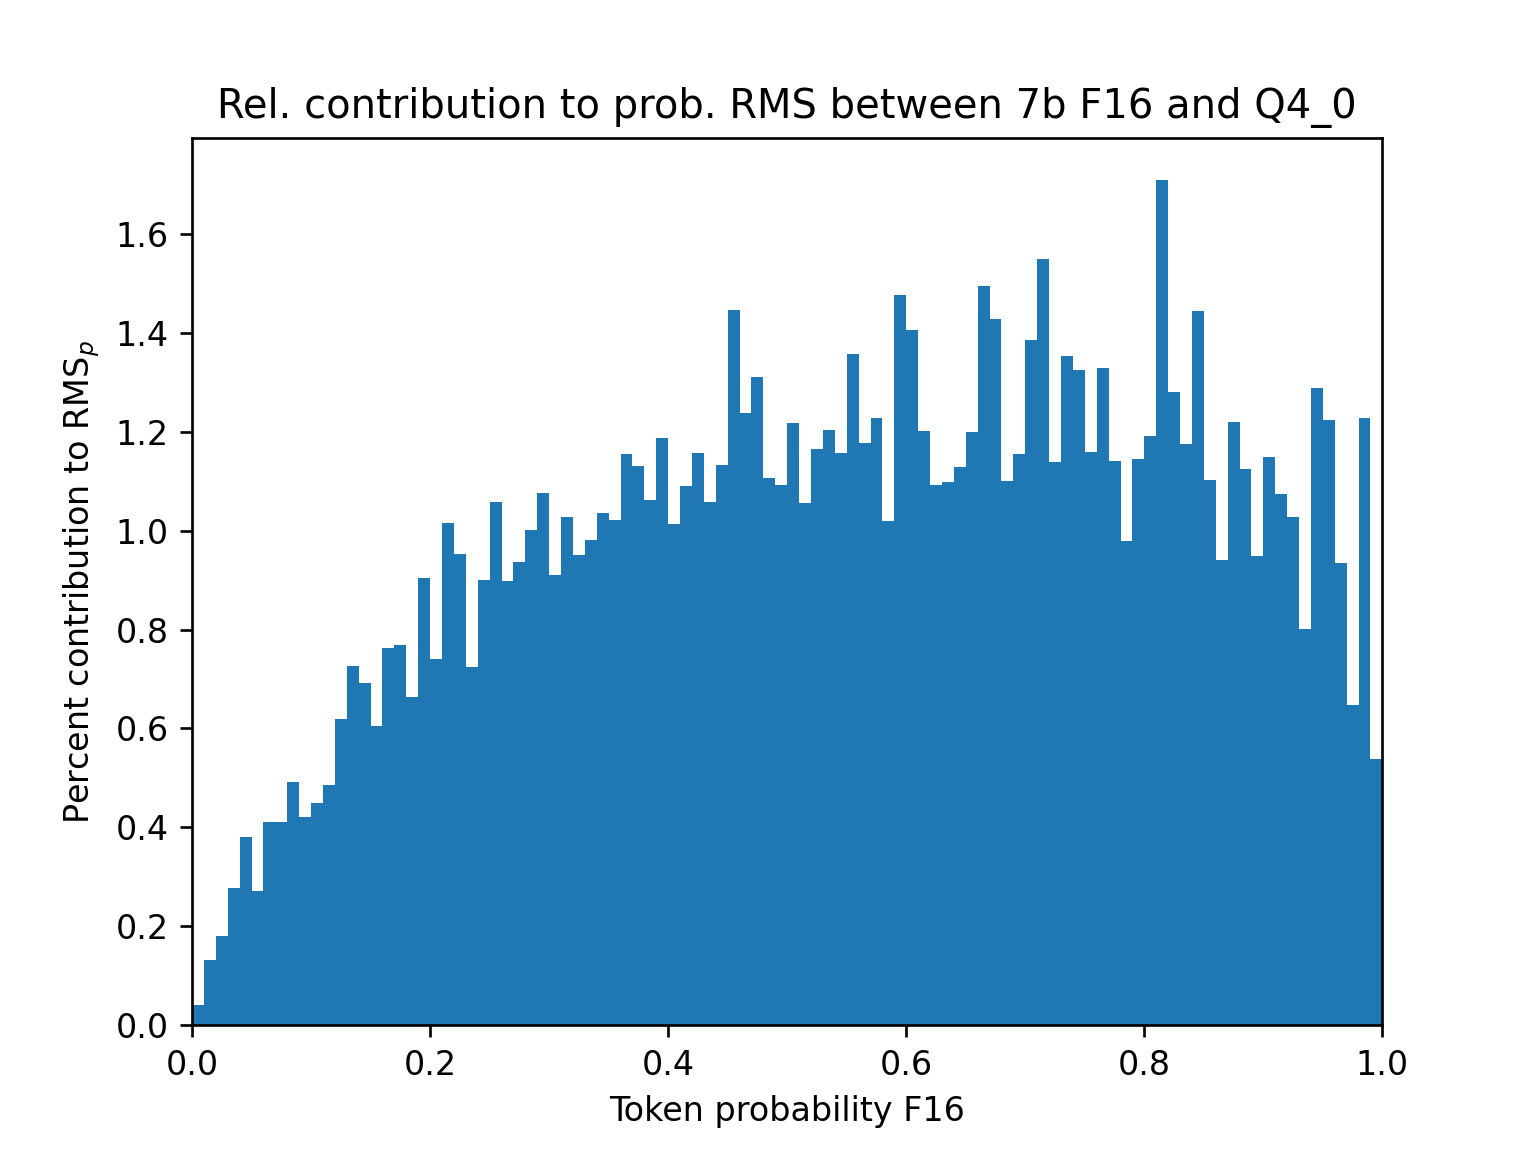
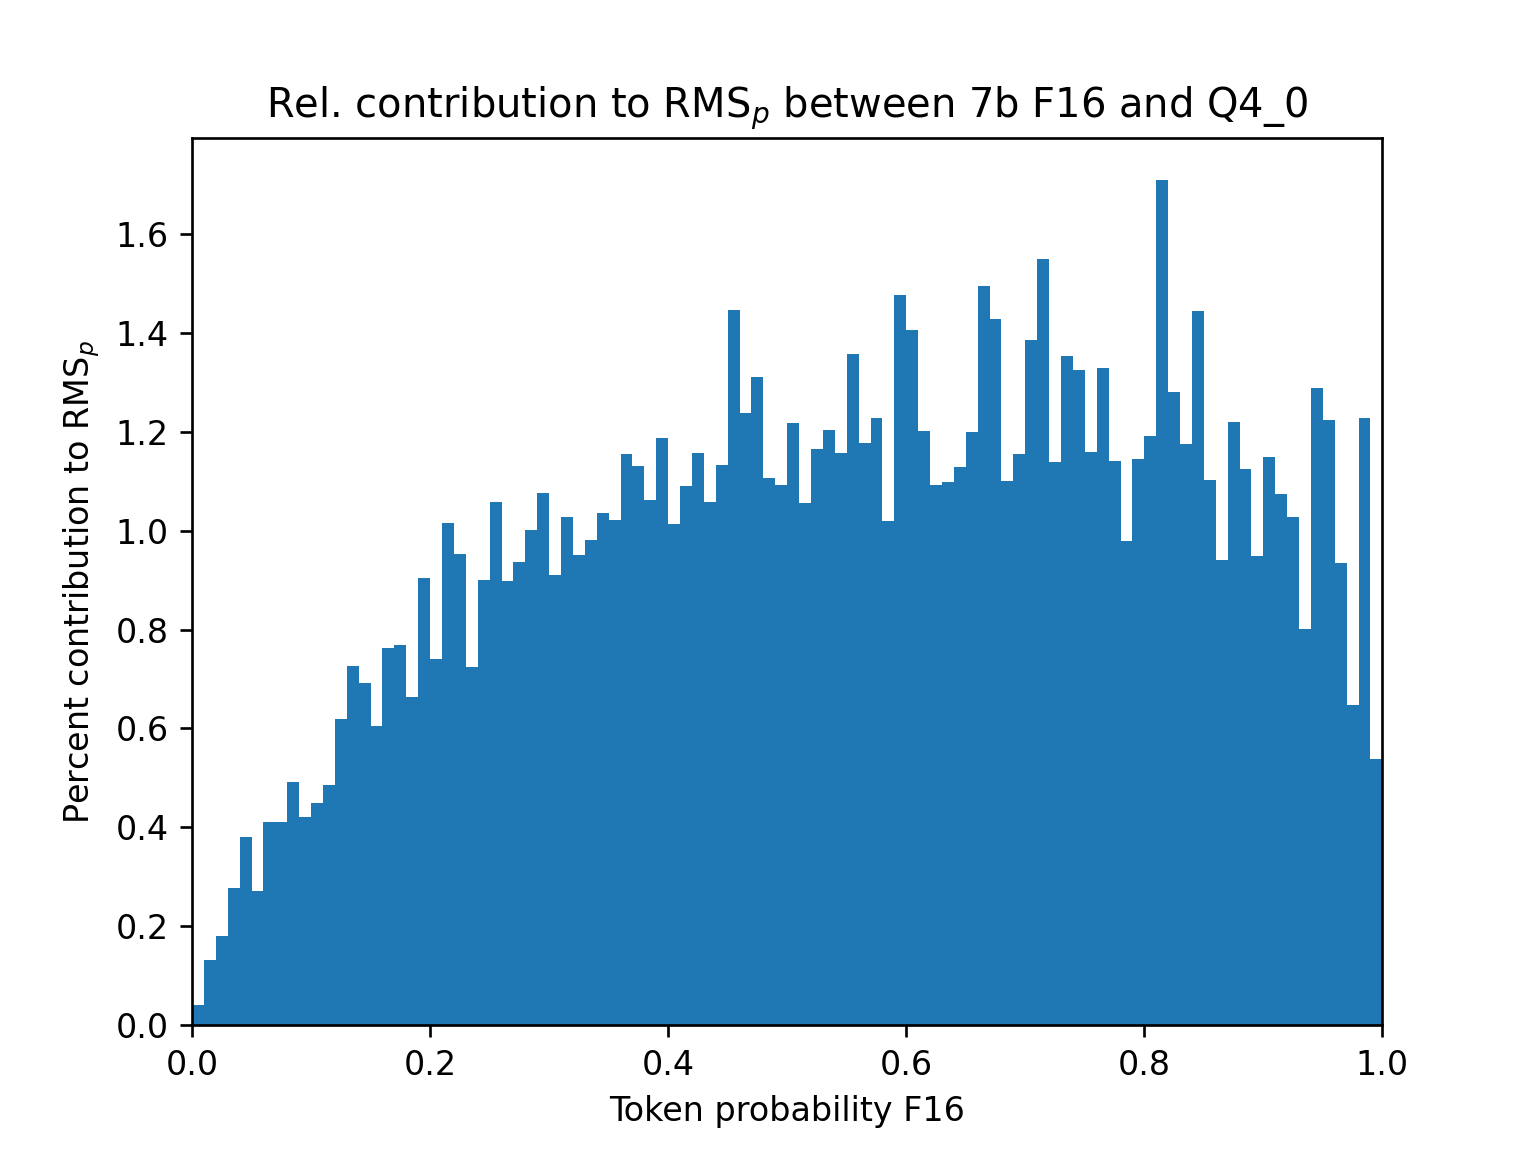
update plots

Changed region(s): [[0.125, 0.0625, 0.875, 0.125]]

diff --git a/llamacpp_quantization_metrics/plot_ppl_hist.py b/llamacpp_quantization_metrics/plot_ppl_hist.py
@@ -137,9 +137,9 @@ for quantization in QUANTIZATIONS:
     plt.figure()
     plt.hist(probs["F16"], bins=np.linspace(0, 1, 101), density=True, weights=np.square(prob_diffs))
     plt.xlim(0, 1)
-    plt.title(f"Rel. contribution to prob. RMS between 7b F16 and {quantization}")
+    plt.title(f"Rel. contribution to $\\mathrm{{RMS}}_p$ between 7b F16 and {quantization}")
     plt.xlabel("Token probability F16")
-    plt.ylabel("Percent contribution to $\mathrm{RMS}_p$")
+    plt.ylabel(r"Percent contribution to $\mathrm{RMS}_p$")
     os.makedirs("plots/prob_rms_contribution", exist_ok=True)
     plt.savefig(f"plots/prob_rms_contribution/prob_rms_contribution_{quantization.lower()}.png", dpi=240)
 
@@ -260,7 +260,7 @@ plt.savefig("plots/combined/combined_perplexity.png", dpi=240)
 plt.figure()
 plt.scatter(MODEL_SIZE_LIST_GIB, rmss_probs, marker=".")
 plt.xlabel("Model size [GiB]")
-plt.ylabel("Probability RMS")
+plt.ylabel(r"$\mathrm{RMS}_p$")
 for quant_name, x, y in zip(QUANTIZATIONS, MODEL_SIZE_LIST_GIB, rmss_probs):
     if quant_name == "Q5_K_S":
         y -= 0.001
